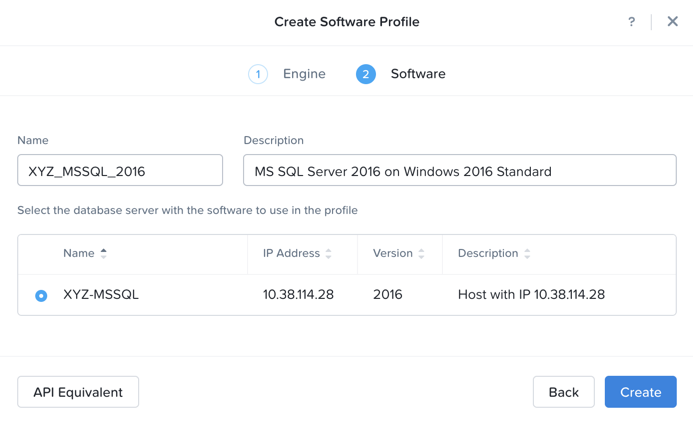
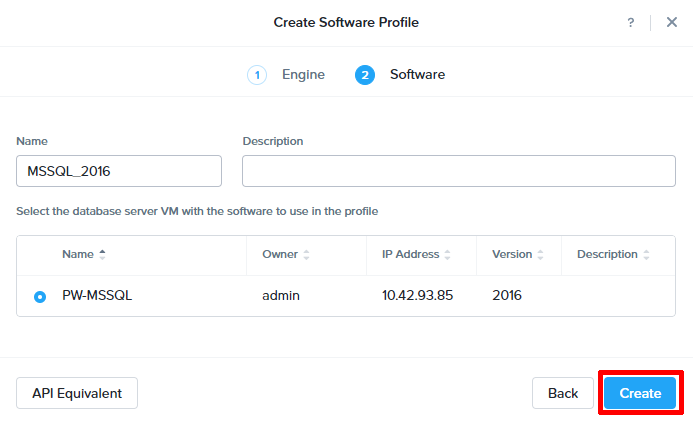
9-17-20.1
Era

diff --git a/db/mssqldeploy/mssqldeploy.rst b/db/mssqldeploy/mssqldeploy.rst
@@ -26,18 +26,11 @@ SQL VM Deployment
 
 #. From the dropdown within Prism, select **VM > + Create VM**.
 
-   .. figure:: images/1.png
-
-#. Click **Create VM**.
-
-#. Select your assigned cluster and click **OK**.
-
 #. Fill out the following fields:
 
    - **Name** - MSSQL
    - **Description** - (Optional) Description for your VM.
    - **vCPU(s)** - 2
-   - **Number of Cores per vCPU** - 1
    - **Memory** - 4 GiB
 
    - Select **+ Add New Disk**
@@ -52,15 +45,15 @@ SQL VM Deployment
 
 #. Click **Save** to create the VM.
 
-#. Right click on the VM, and select **Power On**.
+#. Right click the VM, and select **Power On**.
 
-#. Once powered on, right click on the VM, and select **Launch Console** and complete Windows Server setup:
+#. Once powered on, right click the VM, and select **Launch Console**. Complete Windows Server setup as follows:
 
-   - Click **Next**
-   - **Accept** the licensing agreement
-   - Enter **nutanix/4u** as the Administrator password and click **Finish**
+   - Click **Next**.
+   - **Accept** the licensing agreement.
+   - Enter **nutanix/4u** as the Administrator password and click **Finish**.
 
-#. Log in to the VM using the Administrator username, along with the password you just set.
+#. Log in to the VM using the *Administrator* username, and *nutanix/4u* password.
 
 #. Disable Windows Firewall for all networks.
 
@@ -76,17 +69,19 @@ SQL VM Deployment
 
    - Close the *Server Manager* window.
 
+#. Join the *ntnxlab.local* domain.
+
+   -
+
 #. Launch **File Explorer** and note the current, single disk configuration.
 
    .. figure:: images/2.png
 
    .. note::
 
-      Best practices for database VMs involve spreading the OS, SQL binaries, databases, TempDB, and logs across separate disks in order to maximize performance. On non-AHV hypervisors, these disks should be properly spread across multiple disk controllers, as shown in the diagram below.
+      Best practices for database VMs involve spreading the OS, SQL binaries, databases, TempDB, and logs across separate disks in order to maximize performance.
 
-      .. figure:: images/2b.png
-
-      For complete details for tuning SQL Server on Nutanix (including guidance around NUMA, hyperthreading, SQL Server configuration settings, and more), see the `Nutanix Microsoft SQL Server Best Practices Guide <https://portal.nutanix.com/#/page/solutions/details?targetId=BP-2015-Microsoft-SQL-Server:BP-2015-Microsoft-SQL-Server>`_.
+      For complete details for running Microsoft SQL Server on Nutanix (including guidance around NUMA, hyperthreading, SQL Server configuration settings, and more), see the `Nutanix Microsoft SQL Server Best Practices Guide <https://portal.nutanix.com/#/page/solutions/details?targetId=BP-2015-Microsoft-SQL-Server:BP-2015-Microsoft-SQL-Server>`_.
 
 #. From the desktop, launch the **01 - Rename Server.ps1** PowerShell script shortcut and fill out the following fields:
 
@@ -249,7 +244,7 @@ Initial Era Configuration
 
 #. In the *Services* screen, do the following in the indicated fields:
 
-#. Review the *DNS Servers* and *NTP Servers* entries. Remove any entries that Era added (i.e. that you didn't).
+#. Ensure that the AutoAD IP address is the only entry in the *DNS Servers* field.
 
 #. (Optional) Configure the SMTP server. If you choose not to configure SMTP, remove the e-mail address in the *Sender's Email* field.
 
@@ -277,8 +272,67 @@ Initial Era Configuration
 
    .. figure:: images/era7.png
 
+Configure Windows Domain
+........................
+
+#. From the dropdown, choose **Profiles**.
+
+#. Select **Windows Domain**.
+
+#. Click **Create**.
+
+#. In the *Create Windows Domain Profile* screen, do the following in the indicated fields:
+
+   - **Name** NTNXLAB
+
+   - **Domain to Join (FQDN)** ntnxlab.local
+
+   - **Username** ntnxlab.local\administrators
+
+   - **Password** nutanix/4u
+
+   .. figure:: images/era14.png
+
+#. Click **Create**.
+
+Configure UI Timeout
+....................
+
+#. Click on the **admin** dropdown at the top right, and choose **Profile**.
+
+#. Set the *Timeout* setting to **Never**. This will help avoid being logged out unexpectedly.
+
+Modifying Era VM Network Settings Post-Launch
+.............................................
+
+.. note::
+
+   These instructions are taken from the *Assigning A Static IP Address To The Era VM By Using The Console* section of the Era Guide. However, you may utilize any or all of the parameters for the `era-server set` command to accomplish your goal. For example, if you only need to modify the name server that the Era VM is using, you would type `era_server set nameserver=<NAMESERVER-IP>`.
+
+#. Within Prism, right click the Era VM, and click **Launch Console**
+.
+#. Use the following credentials to log on to Era:
+
+   - User name: era
+   - Password: Nutanix.1
+
+#. Launch the Era server prompt by typing `era-server`.
+
+#. The command is `era_server set ip=<IP-address> gateway=<GATEWAY-ADDRESS> netmask=<NETMASK-IP> nameserver=<NAMESERVER>
+
 Registering MSSQL VM
 ++++++++++++++++++++
+
+Registering a database server with Era allows you to deploy databases to that resource, or to use that resource as the basis for a Software Profile.
+
+A SQL Server database server must meet the following requirements before you are able to register it with Era. Your SQL VM meets all of these criteria.
+
+   - A local user account or a domain user account with administrator privileges on the database server must be provided.
+   - Windows account or the SQL login account provided must be a member of sysadmin role.
+   - SQL Server instance must be running.
+   - Database files must not exist in C:\ Drive.
+   - Database must be in an online state.
+   - Windows remote management (WinRM) must be enabled.
 
 #. From the dropdown, select **Databases**.
 
@@ -308,118 +362,37 @@ Registering MSSQL VM
 
 #. The registration process will take approximately 5 minutes. In the meantime, proceed with these steps:
 
-   - From the dropdown, select **Administration**.
+   - From the dropdown menu, select **SLAs**. Era has five built-in SLAs (Gold, Silver, Bronze, Zero, and Brass). SLAs control however the database server is backed up. This can with a combination of Continuous Protection, Daily, Weekly Monthly and Quarterly protection intervals.
 
-#. From the dropdown menu, select **SLAs**.
-
-   Era has five built-in SLAs (Gold, Silver, Bronze, Zero, and Brass). SLAs control however the database server is backed up. This can with a combination of Continuous Protection, Daily, Weekly Monthly and Quarterly protection intervals.
-
-#. From the dropdown menu, select **Profiles**.
+   - From the dropdown menu, select **Profiles**.
 
    Profiles pre-define resources and configurations, making it simple to consistently provision environments and reduce configuration sprawl. For example, Compute Profiles specifiy the size of the database server, including details such as vCPUs, cores per vCPU, and memory.
-
-#. Under **Network**, click **+ Create**.
-
-   .. figure:: images/8.png
-
-#. Fill out the following fields and click **Create**:
-
-   - **Engine** - Microsoft SQL Server
-   - **Name** - *Assigned User VLAN*-MSSQL-NETWORK
-   - **Public Service VLAN** - *Assigned User VLAN*
-
-   .. figure:: images/9.png
-
-#. Click **+ Create** again and fill out the following fields:
-
-   - **Engine** - Oracle
-   - **Type** - Single Instance
-   - **Name** - *Assigned User VLAN*-ORACLE-NETWORK
-   - **Public Service VLAN** - *Assigned User VLAN*
-
-#. Click **Create** to finish creating your Oracle network profile.
-
-   .. figure:: images/10.png
-
-Registering Your MSSQL VM
-+++++++++++++++++++++++++
-
-Registering a database server with Era allows you to deploy databases to that resource, or to use that resource as the basis for a Software Profile.
-
-You must meet the following requirements before you register a SQL Server database with Era:
-
-- A local user account or a domain user account with administrator privileges on the database server must be provided.
-- Windows account or the SQL login account provided must be a member of sysadmin role.
-- SQL Server instance must be running.
-- Database files must not exist in C:\ Drive.
-- Database must be in an online state.
-- Windows remote management (WinRM) must be enabled
-
-.. note::
-
-   Your *XYZ*\ **-MSSQL** VM meets all of these criteria.
-
-#. In **Era**, select **Database Servers** from the dropdown menu and **List** from the lefthand menu.
-
-   .. figure:: images/11.png
-
-#. Click **+ Register** and fill out the following fields:
-
-   - **Engine** - Microsoft SQL Server
-   - **IP Address or Name of VM** - *Initials*\ -MSSQL
-   - **Windows Administrator Name** - Administrator
-   - **Windows Administrator Password** - nutanix/4u
-   - **Instance** - MSSQLSERVER (This should auto-populate after providing credentials)
-   - **Connect to SQL Server Admin** - Windows Admin User
-   - **User Name** - Administrator
-
-   .. note::
-
-      If **Instance** does not automatically populate, disable the Windows Firewall in your *XYZ*\ **-MSSQL** VM.
-
-   .. figure:: images/12.png
-
-   .. note::
-
-    You can click **API Equivalent** for many operations in Era to enter an interactive wizard providing JSON payload based data you've input or selected within the UI, and examples of the API call in multiple languages (cURL, Python, Golang, Javascript, and Powershell).
-
-    .. figure:: images/17.png
-
-#. Click **Register** to begin ingesting the Database Server into Era.
-
-#. Select **Operations** from the dropdown menu to monitor the registration. This process should take approximately 5 minutes.
-
-   .. figure:: images/13.png
-
-   .. note::
-
-      It is also possible to register existing databases on any server, which will also register the database server it is on.
 
 Creating A Software Profile
 +++++++++++++++++++++++++++
 
 Before additional SQL Server VMs can be provisioned, a Software Profile must first be created from the database server VM registered in the previous step. A software profile is a template that includes the SQL Server database and operating system. This template exists as a hidden, cloned disk image on your Nutanix storage.
 
-#. Select **Profiles** from the dropdown menu and **Software** from the lefthand menu.
+#. Select **Profiles** from the dropdown menu and then **Software** from the lefthand menu.
 
    .. figure:: images/14.png
 
 #. Click **+ Create** and fill out the following fields:
 
    - **Engine** - Microsoft SQL Server
-   - **Name** - *Initials*\ _MSSQL_2016
+   - **Name** - MSSQL_2016
    - **Description** - (Optional)
-   - **Database Server** - Select your registered *Initials*\ -MSSQL VM
-
-   .. figure:: images/15.png
+   - **Database Server** - Select your registered MSSQL VM
 
 #. Click **Create**.
+
+   .. figure:: images/15.png
 
 #. Select **Operations** from the dropdown menu to monitor the registration. This process should take approximately 5 minutes.
 
    .. figure:: images/16.png
 
-#. Once the profile creation completes successfully, Shutdown (Gracefully) your *Initials*\ **-MSSQL** VM in Prism.
+#. Once the profile creation completes successfully, return to Prism. Right click your MSSQL VM, and choose **Power Off Actions > Guest Shutdown**.
 
 Creating a New MSSQL Database Server
 ++++++++++++++++++++++++++++++++++++
@@ -428,31 +401,29 @@ You've completed all the one time operations required to be able to provision an
 
 #. In **Era**, select **Databases** from the dropdown menu and **Sources** from the lefthand menu.
 
-#. Click **+ Provision > Single Node Database**.
+#. Click **+ Provision > Microsoft SQL Server > Database**.
 
-   .. figure:: images/18.png
+   .. figure:: images/era12.png
 
 #. In the **Provision a Database** wizard, fill out the following fields to configure the Database Server:
 
-   - **Engine** - Microsoft SQL Server
-   - **Database Server** - Create New Server
-   - **Database Server Name** - *Initials*\ -MSSQL2
+   - **Database Server VM** - Create New Server
+   - **Database Server VM Name** - MSSQL2
    - **Description** - (Optional)
-   - **Software Profile** - *Initials*\ _MSSQL_2016
-   - **Compute Profile** - CUSTOM_EXTRA_SMALL
-   - **Network Profile** - *User VLAN*\ _MSSQL_NETWORK
+   - **Software Profile** - MSSQL_2016
+   - **Compute Profile** - DEFAULT_OOB_COMPUTE
+   - **Network Profile** - DEFAULT_OOB_SQLSERVER_NETWORK
    - **Database Time Zone** - Eastern Standard Time
    - Select **Join Domain**
    - **Windows Domain Profile** - NTNXLAB
    - **Windows License Key** - (Leave Blank)
    - **Administrator Password** - nutanix/4u
    - **Instance Name** - MSSQLSERVER
-   - **Server Collation** - Default
    - **Database Parameter Profile** - DEFAULT_SQLSERVER_INSTANCE_PARAMS
    - **SQL Service Startup Account** - ntnxlab.local\\Administrator
    - **SQL Service Startup Account Password** - nutanix/4u
 
-   .. figure:: images/19.png
+   .. figure:: images/era16.png
 
    .. note::
 
@@ -469,12 +440,11 @@ You've completed all the one time operations required to be able to provision an
 
 #. Click **Next**, and fill out the following fields to configure the Database:
 
-   - **Database Name** - *Initials*\ -fiesta
+   - **Database Name** - Fiesta2
    - **Description** - (Optional)
-   - **Size (GiB)** - 200 (Default)
    - **Database Parameter Profile** - DEFAULT_SQLSERVER_DATABASE_PARAMS
 
-   .. figure:: images/20.png
+   .. figure:: images/era17.png
 
    .. note::
 
@@ -489,22 +459,20 @@ You've completed all the one time operations required to be able to provision an
 
    .. note::
 
-      .. raw:: html
+      The default BRASS SLA does NOT include Continuous Protection snapshots.
 
-        <strong><font color="red">It is critical to select the BRONZE SLA in the following step. The default BRASS SLA does NOT include Continuous Protection snapshots.</font></strong>
-
-   - **Name** - *initials*\ -fiesta_TM (Default)
    - **Description** - (Optional)
-   - **SLA** - DEFAULT_OOB_BRONZE_SLA
-   - **Schedule** - (Defaults)
+   - **SLA** - DEFAULT_OOB_GOLD_SLA
 
-   .. figure:: images/21.png
+   .. figure:: images/era18.png
 
-#. Click **Provision** to begin creating your new database server VM and **fiesta** database.
+#. Click **Provision** to begin creating your new database server VM and **Fiesta** database.
 
-#. Select **Operations** from the dropdown menu to monitor the provisioning. This process should take approximately 20 minutes.
+#. Select **Operations** from the dropdown menu to monitor the provisioning. This process should take approximately 20 minutes. You may continue with the first two steps in the next section while this operation is running.
 
-   .. figure:: images/22.png
+   .. figure:: images/era19.png
+
+If you encounter errors unrelated to the information you entered, you can select the name of the process within *Operations* and click **Resubmit**.
 
    .. note::
 
@@ -513,31 +481,28 @@ You've completed all the one time operations required to be able to provision an
       Some of the best practices automatically configured by Era include:
 
       - Distribute databases and log files across multiple vDisks.
-      - Do not use Windows dynamic disks or other in-guest volume management
-      - Distribute vDisks across multiple SCSI controllers (for ESXi)
-      - For each database, use multiple data files: one file per vCPU.
+      - Do not use Windows dynamic disks or other in-guest volume management.
+      - For each database, use multiple data files; one file per vCPU.
       - Configure initial log file size to 4 GB or 8 GB and iterate by the initial amount to reach the desired size.
       - Use multiple TempDB data files, all the same size.
-      - Use available hypervisor network control mechanisms (for example, VMware NIOC).
-
 
 Exploring the Provisioned DB Server
 ++++++++++++++++++++++++++++++++++++
 
-#. In **Prism Element > Storage > Volume Groups**, locate the **ERA_**\ *Initials*\ **_MSSQL2_\*** VG and observe the layout on the **Virtual Disk** tab. <What does this tell us?>
+#. In **Prism Element > Storage > Volume Groups**, locate the **ERA_MSSQL2_...** VG and observe the layout on the **Virtual Disk** tab.
 
    .. figure:: images/23.png
 
-#. View the disk layout of your newly provisioned VM in Prism. <What are all of these disks and how is this different from the original VM we registered?>
+#. View the disk layout of your newly provisioned VM in Prism, and compare to the previous VM. This VM follows best practices when it comes to disk layout, where as the original VM does not.
 
    .. figure:: images/24.png
 
-#. In Prism, note the IP address of your *Initials*\ **-MSSQL2** VM and connect to it via RDP using the following credentials:
+#. In Prism, note the IP address of your *MSSQL2* VM and connect to it via RDP using the following credentials:
 
-   - **User Name** - NTNXLAB\\Administrator
+   - **User Name** - Administrator
    - **Password** - nutanix/4u
 
-#. Open **Start > Run > diskmgmt.msc** to view the in-guest disk layout. Right-click an unlabeled volume and select **Change Drive Letter and Paths** to view the path to which Era has mounted the volume. Note there are dedicated drives corresponding to SQL data and log locations, similar to the original SQL Server to which you manually applied best practices. <Anything else to share here?>
+#. Open **Start > Run > diskmgmt.msc** to view the in-guest disk layout. Right-click an unlabeled volume and select **Change Drive Letter and Paths** to view the path to which Era has mounted the volume. Note there are dedicated drives corresponding to SQL data and log locations, similar to the original SQL Server to which you manually applied best practices.
 
    .. figure:: images/25.png
 
